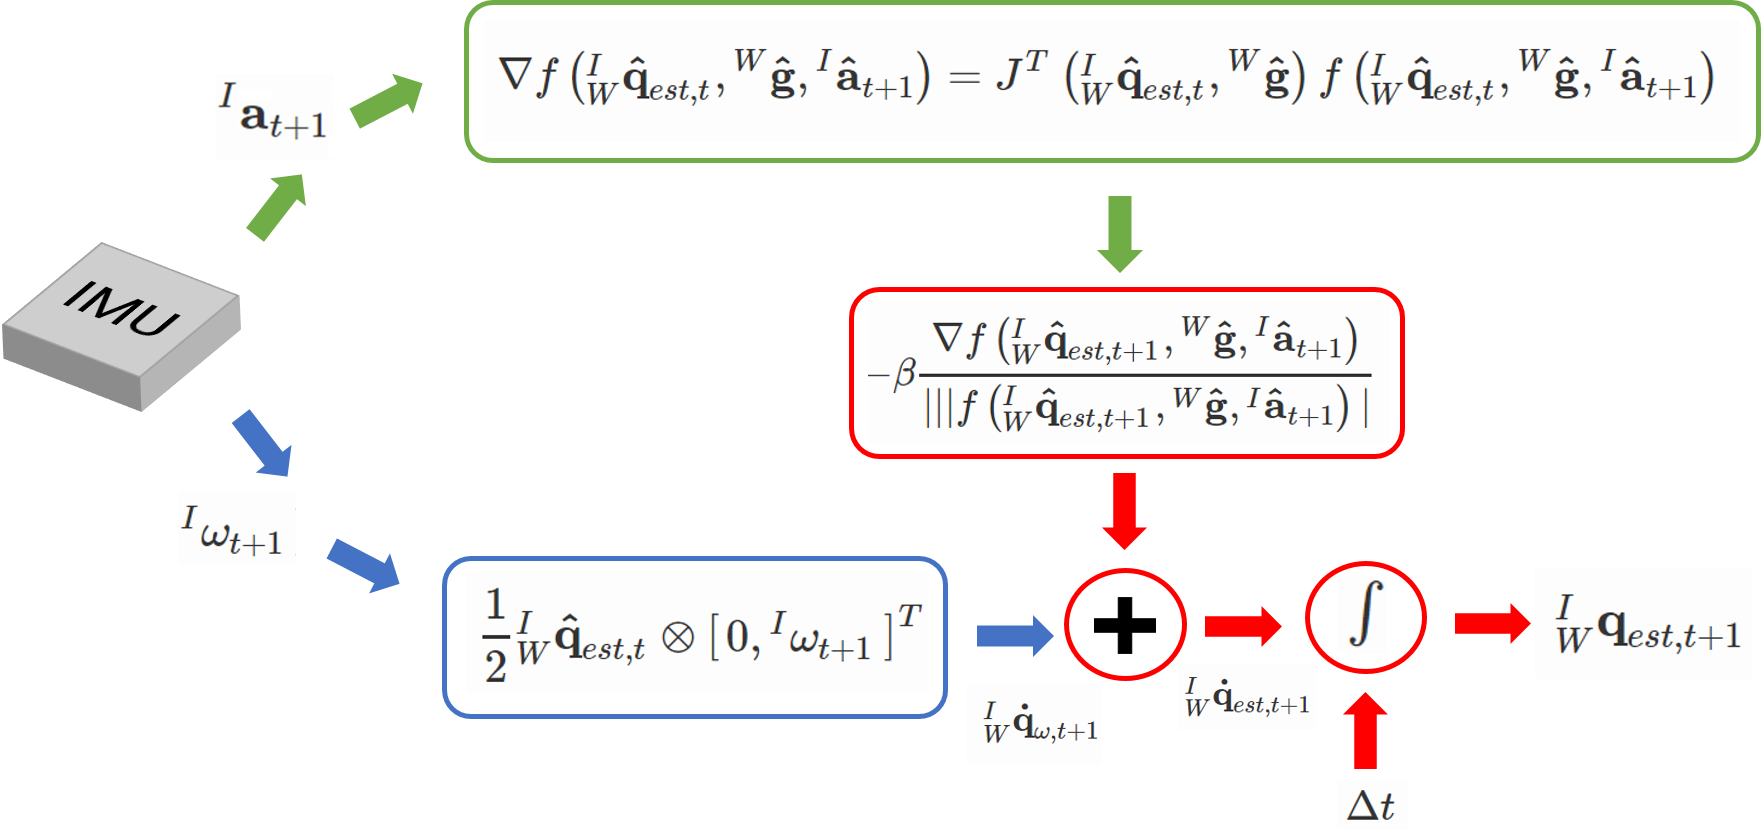
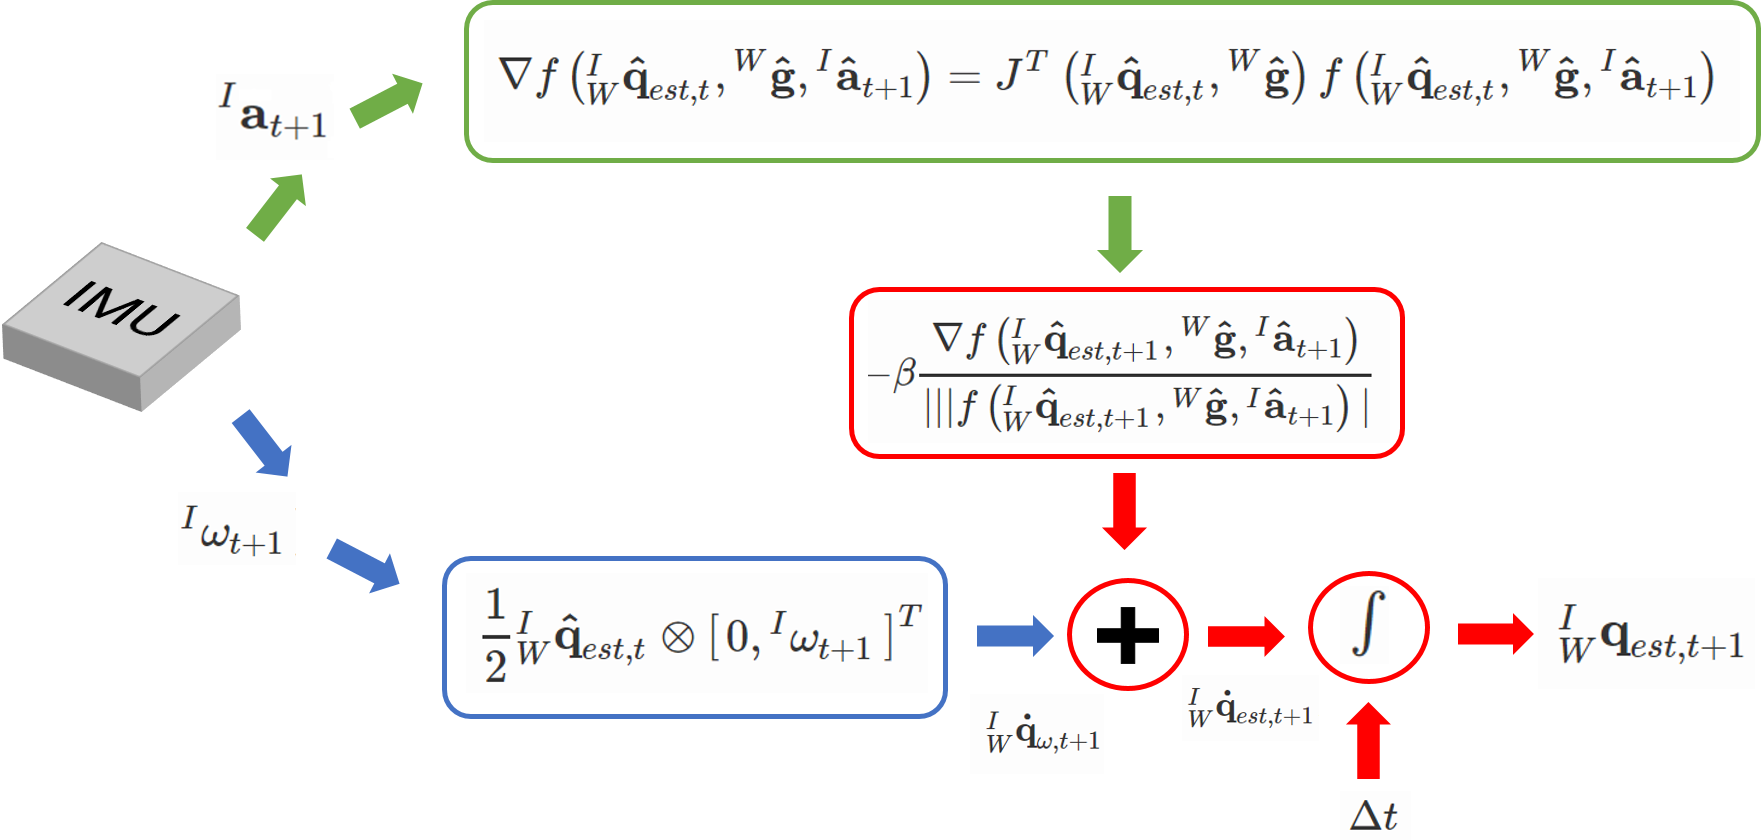
Added Mahony Filter

diff --git a/mahony.md b/mahony.md
@@ -10,6 +10,7 @@ sitemap:
 
 - [Mathematical Model of an IMU](#mathimu)
 - [Mahony Filter](#mahonyfilt)
+- [References](#ref)
 
 
 <a name='mathimu'></a>
@@ -57,9 +58,9 @@ Following are the steps for attitude estimation using a Mahony filter (Refer to 
 
 
 <div class="fig fighighlight">
-  <img src="https://nitinjsanket.github.io/assets/img/tutorials/MadgwickFilterOverview.png" width="100%">
+  <img src="https://nitinjsanket.github.io/assets/img/tutorials/MahonyFilterOverview.png" width="100%">
   <div class="figcaption">
-  	Fig 1: Overview of Madgwick Filter.
+  	Fig 1: Overview of Mahony Filter.
   </div>
   <div style="clear:both;"></div>
 </div> <br>
@@ -98,3 +99,9 @@ Here, \\(\otimes\\) denotes quaternion multiplication.
 **Repeat steps 1 to 5 for every time instant.** <br>
 
 In a Mahony filter, the only tunable parameters are the PI compensator gians $$\mathbf{K}_p$$ and $$\mathbf{K}_i$$. Also, the user needs to specify the initial estimates of the attitude, biases and sampling time. The initial attitude can be assumed to be zero if th device is at rest or it has to be obtained by external sources such as a motion capture system or a camera. The bias is computed by taking an average of samples with the IMU at rest and computing the mean value. Note that this bias changes over time and the filter will start to drift over time. The sampling time is the inverse of the operating frequency of the IMU and is specified generally at the driver level.
+
+<a name='ref'></a>
+
+## References
+
+- Robert Mahony, Tarek Hamel, and Jean-Michel Pflimlin. [Nonlinear complementary filters on the special orthogonal group.](https://ieeexplore.ieee.org/document/4608934) IEEE Transactions on automatic control 53.5 (2008): 1203-1217.

diff --git a/madgwick.md b/madgwick.md
@@ -10,6 +10,7 @@ sitemap:
 
 - [Mathematical Model of an IMU](#mathimu)
 - [Madgwick Filter](#madgwickfilt)
+- [References](#ref)
 
 
 <a name='mathimu'></a>
@@ -117,3 +118,9 @@ Here, \\(\Delta t\\) is the time elapsed between two samples at \\(t\\) and \\(t
 **Repeat steps 1 to 3 for every time instant.** <br>
 
 In a Madgwick filter, the only tunable parameter is trade off parameter $$\beta$$ which determines when the gyro has to take over the acc. Also, the user needs to specify the initial estimates of the attitude, biases and sampling time. The initial attitude can be assumed to be zero if th device is at rest or it has to be obtained by external sources such as a motion capture system or a camera. The bias is computed by taking an average of samples with the IMU at rest and computing the mean value. Note that this bias changes over time and the filter will start to drift over time. The sampling time is the inverse of the operating frequency of the IMU and is specified generally at the driver level.
+
+<a name='ref'></a>
+
+## References
+
+- Sebastian OH Madgwick, Andrew JL Harrison, and Ravi Vaidyanathan. [Estimation of IMU and MARG orientation using a gradient descent algorithm.](https://ieeexplore.ieee.org/document/5975346) 2011 IEEE international conference on rehabilitation robotics. IEEE, 2011.

diff --git a/imu.md b/imu.md
@@ -10,6 +10,7 @@ sitemap:
 
 - [What is an IMU?](#whatisanimu)
 - [Complementary Filter](#cf)
+- [References](#ref)
 
 
 <a name='whatisanimu'></a>
@@ -61,4 +62,9 @@ Here the gyro data is integrated to obtain angles.
 
 - Why you cant just integrate gyros?
 - Why you cant rely just on acc?
-- References
+
+<a name='ref'></a>
+
+## References
+
+- [My IMU estimation experience blog](https://sites.google.com/site/myimuestimationexperience/filters/complementary-filter)
